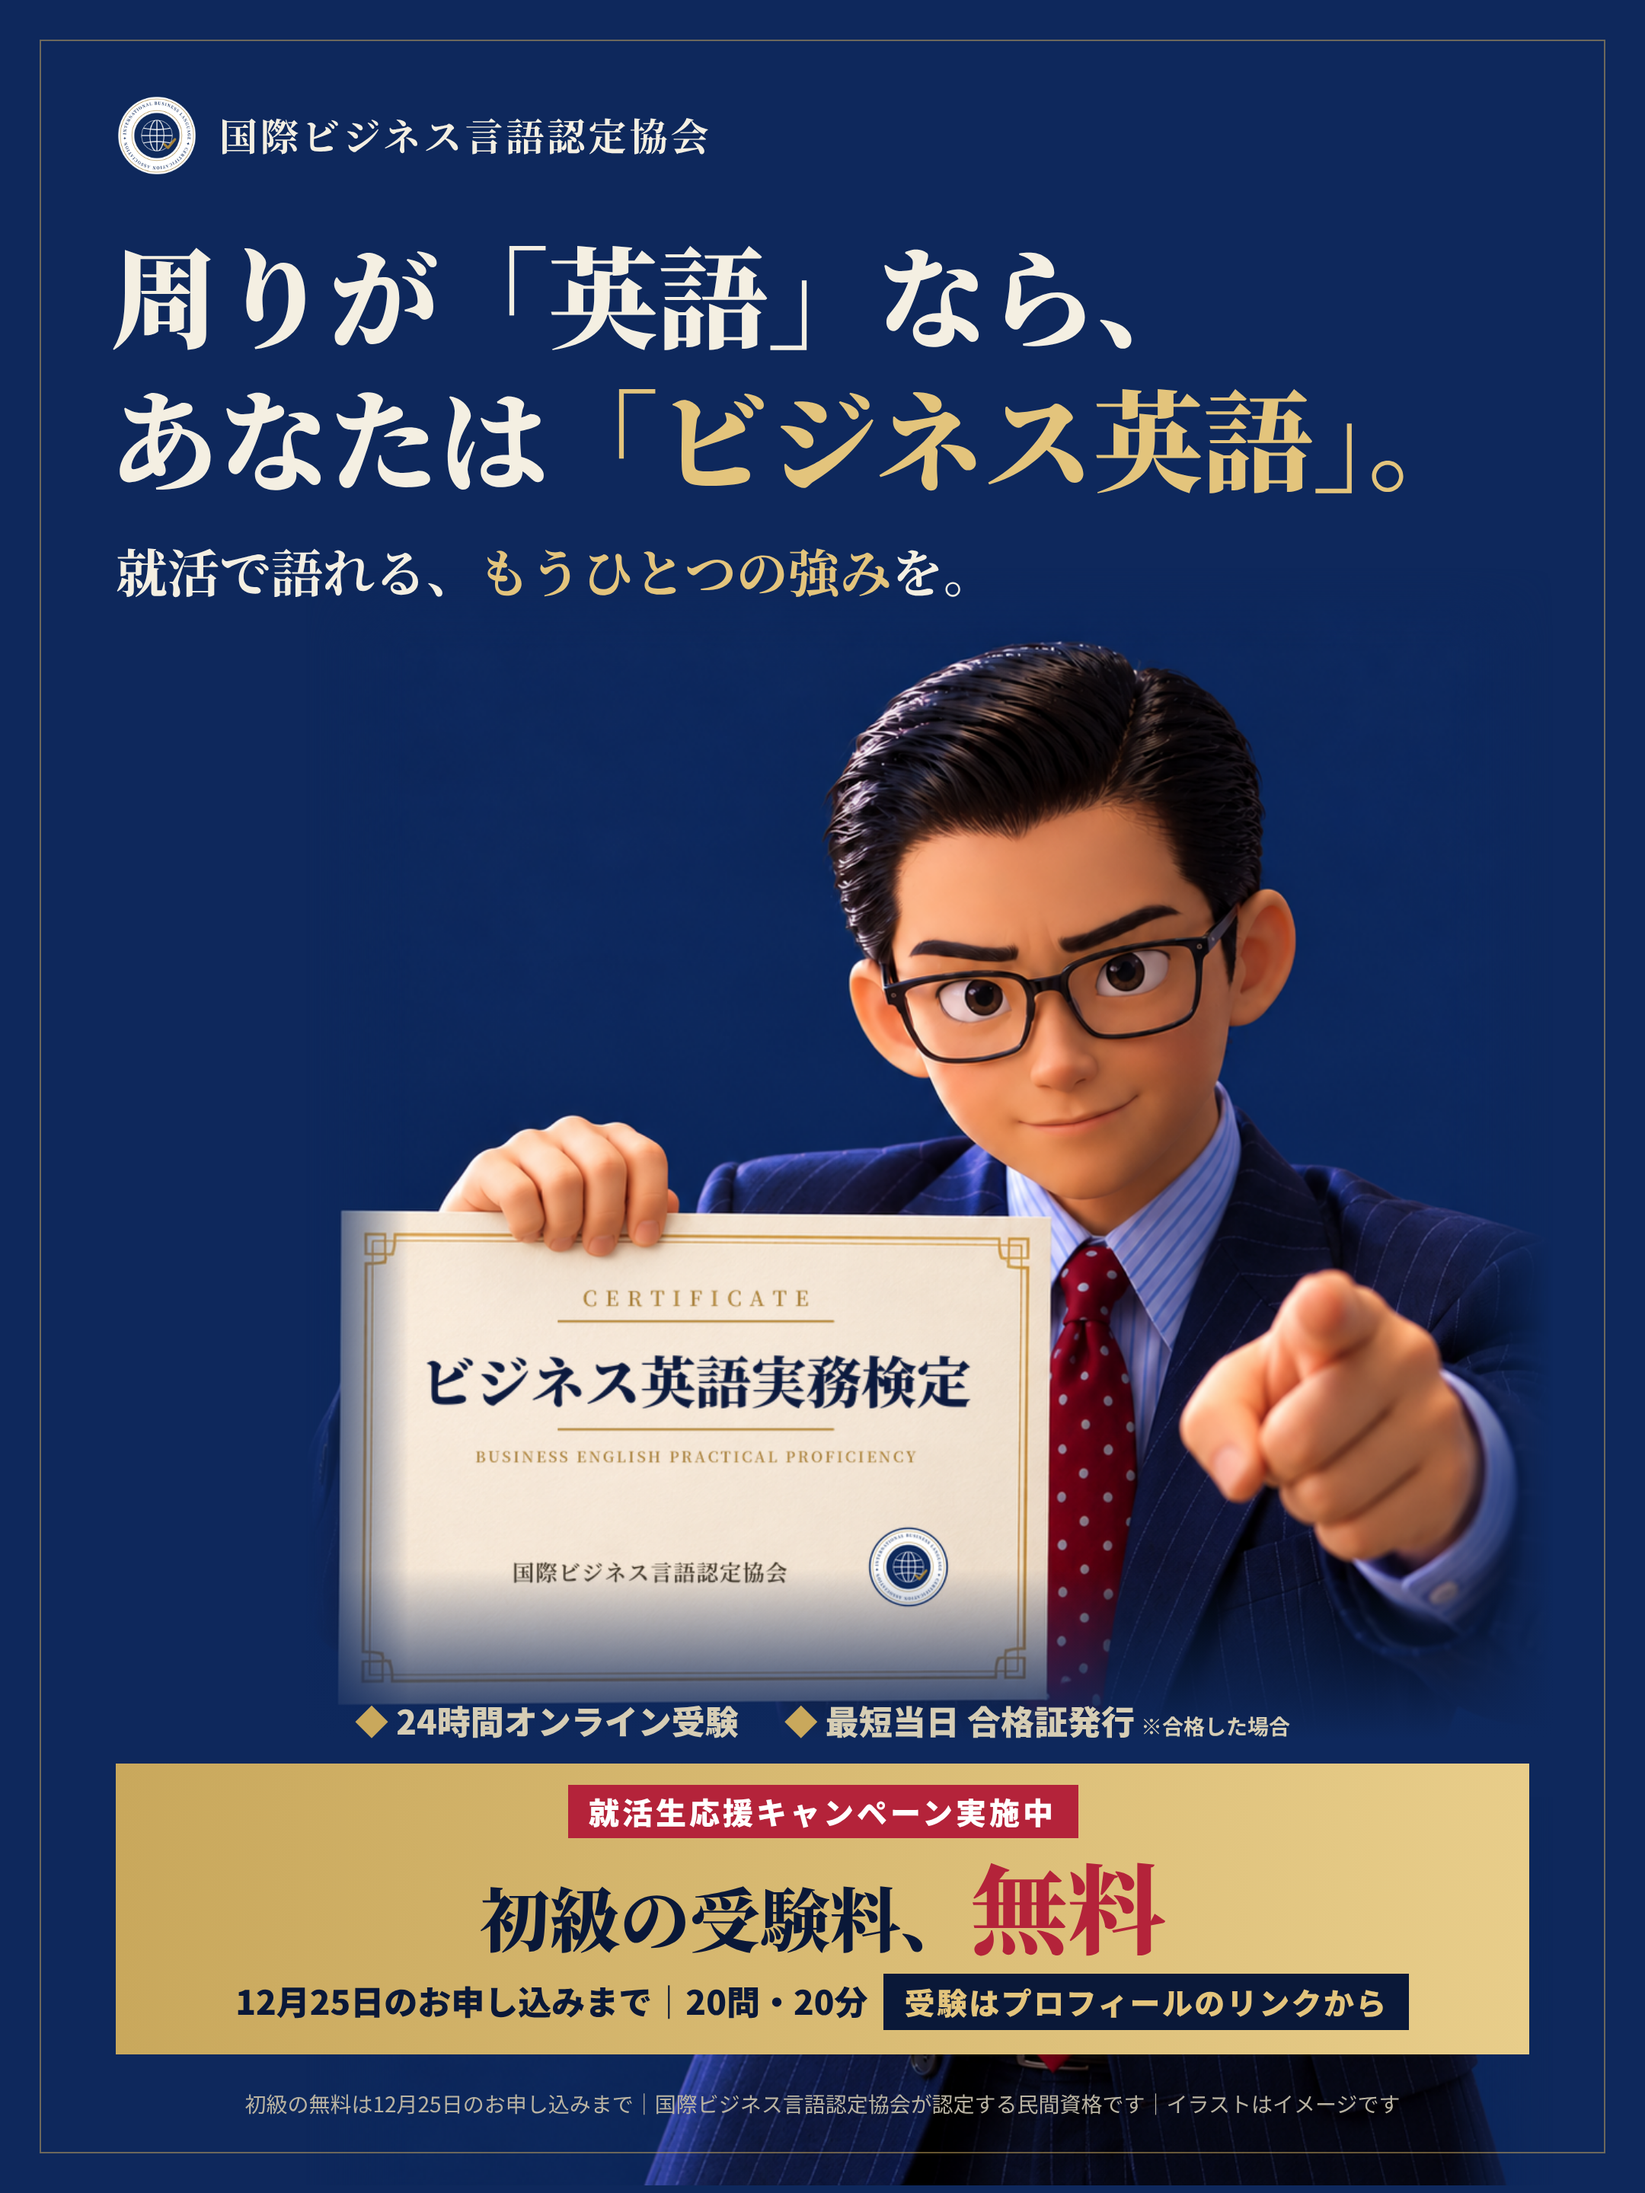
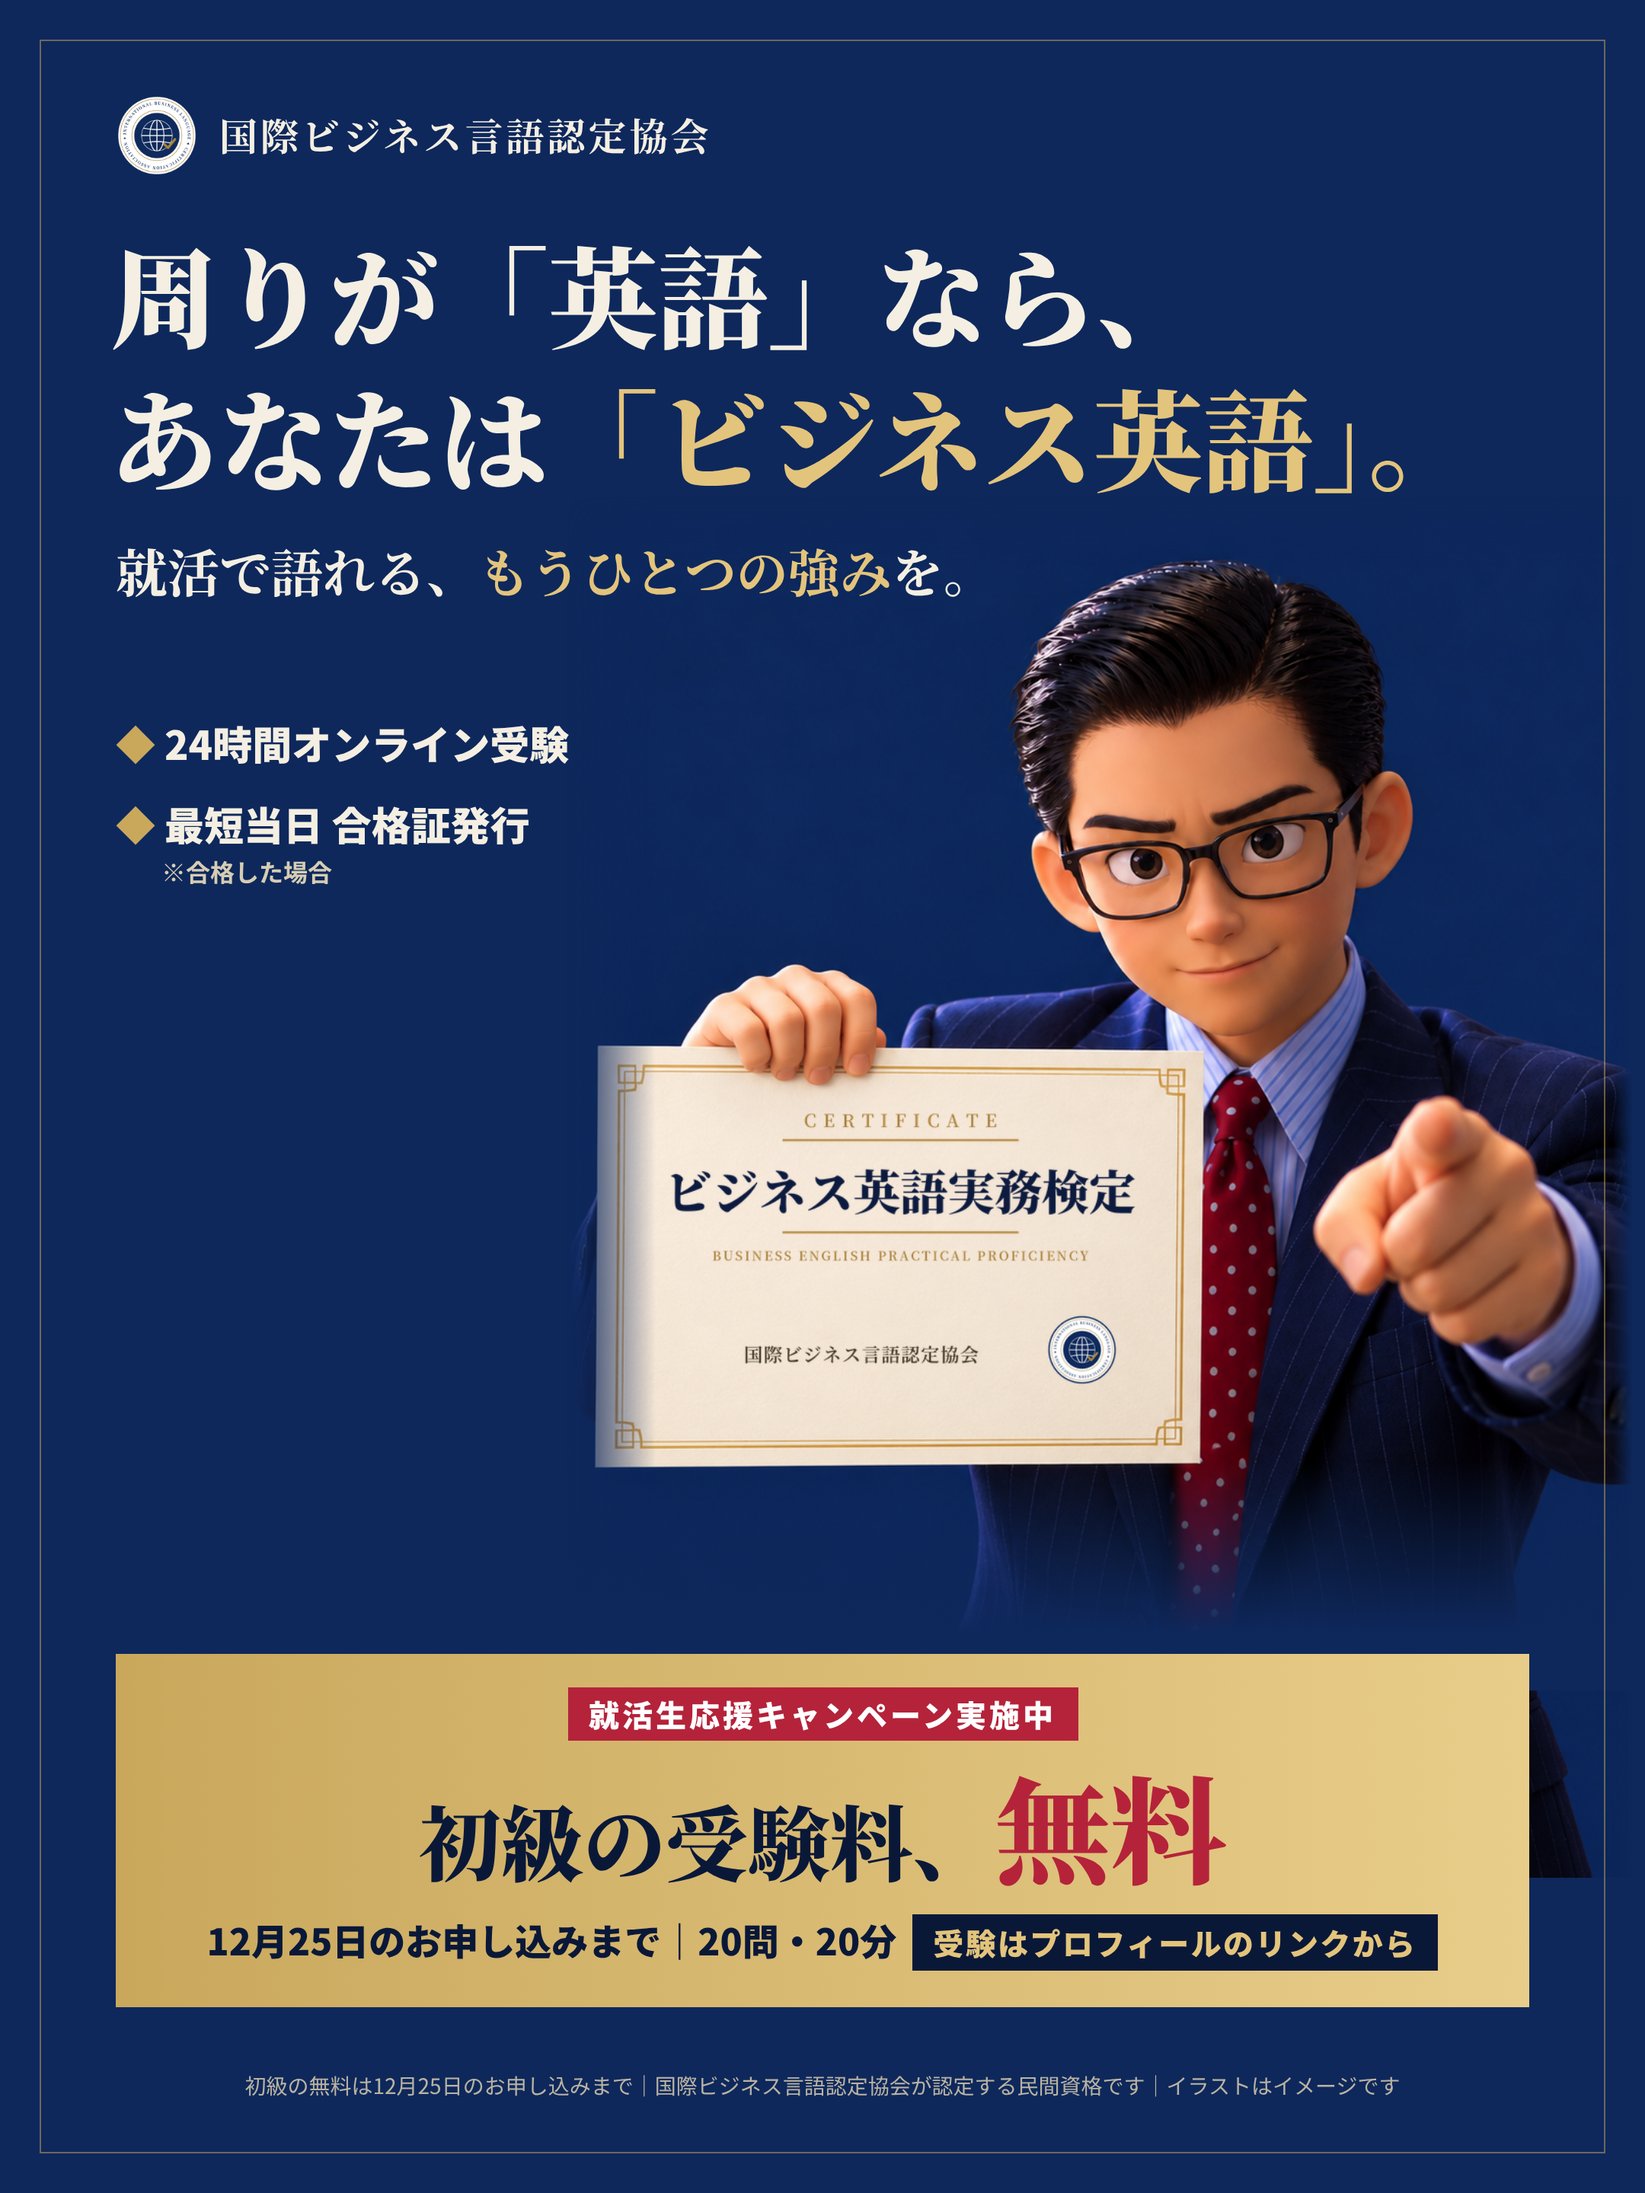
v19：頭を見出し右の空きスペースに、特長を左へ
Claude-Session: https://claude.ai/code/session_014p5jL2LKN9C3tYKst8GaL5

diff --git a/content/posters/ig_v19.html b/content/posters/ig_v19.html
@@ -10,19 +10,19 @@ body{font-family:"Noto Sans CJK JP",sans-serif;color:#f4efe2;-webkit-font-smooth
 .head em{font-style:normal;color:#e3c47c}
 .sub{position:absolute;z-index:4;left:76px;top:350px;font-family:"Noto Serif CJK JP",serif;font-weight:700;font-size:34px}
 .sub em{font-style:normal;color:#e3c47c}
-.ken{position:absolute;left:200px;top:342px;width:820px;z-index:1}
-.fadeb{position:absolute;left:0;right:0;top:1030px;height:150px;background:linear-gradient(180deg,rgba(14,40,92,0),#0e285c 75%);z-index:2}
-.chips{position:absolute;z-index:4;left:0;right:0;top:1114px;display:flex;justify-content:center;gap:30px;font-weight:900;font-size:22px;color:#d6cdb4}
+.ken{position:absolute;left:372px;top:300px;width:700px;z-index:1}
+.fadeb{position:absolute;left:0;right:0;top:960px;height:150px;background:linear-gradient(180deg,rgba(14,40,92,0),#0e285c 75%);z-index:2}
+.chips{position:absolute;z-index:4;left:76px;top:470px;display:flex;flex-direction:column;gap:16px;font-weight:900;font-size:26px;color:#f4efe2}.chips small{display:block;margin-left:30px!important;font-size:16px!important;color:#d6cdb4}
 .chips span:before{content:"◆ ";color:#c9a85c}.chips small{font-size:14px;font-weight:700;margin-left:4px}
-.cta{position:absolute;z-index:4;left:76px;right:76px;top:1158px;background:linear-gradient(90deg,#c9a85c,#e8cd8a);color:#0a1838;text-align:center;padding:14px 12px 16px}
+.cta{position:absolute;z-index:4;left:76px;right:76px;top:1086px;background:linear-gradient(90deg,#c9a85c,#e8cd8a);color:#0a1838;text-align:center;padding:22px 12px 24px}
 .cta .t{display:inline-block;background:#b4233a;color:#fff;font-weight:900;font-size:20px;letter-spacing:.1em;padding:3px 14px}
 .cta .nm{margin-top:4px;font-family:"Noto Serif CJK JP",serif;font-weight:900;font-size:52px;line-height:1.15;letter-spacing:.04em}
 .cta .nm:after{content:"";display:block;width:460px;height:1.5px;background:rgba(10,24,56,.45);margin:6px auto 2px}
-.cta .a{margin-top:6px;font-family:"Noto Serif CJK JP",serif;font-weight:900;font-size:46px;line-height:1.2}
-.cta .a b{font-size:64px;color:#b4233a}
-.cta .b{margin-top:6px;font-weight:900;font-size:22px}
+.cta .a{margin-top:10px;font-family:"Noto Serif CJK JP",serif;font-weight:900;font-size:54px;line-height:1.2}
+.cta .a b{font-size:76px;color:#b4233a}
+.cta .b{margin-top:12px;font-weight:900;font-size:24px}
 .cta .b span{display:inline-block;background:#0a1838;color:#e3c47c;padding:4px 14px;margin-left:10px;font-size:20px;letter-spacing:.06em}
-.note{position:absolute;z-index:4;left:0;right:0;top:1372px;text-align:center;font-size:14px;color:#b9b3a2}
+.note{position:absolute;z-index:4;left:0;right:0;top:1360px;text-align:center;font-size:14px;color:#b9b3a2}
 </style></head><body>
 <div class="frame"></div>
 <img class="ken" src="ken_cert2_fade.png"><div class="fadeb"></div>
